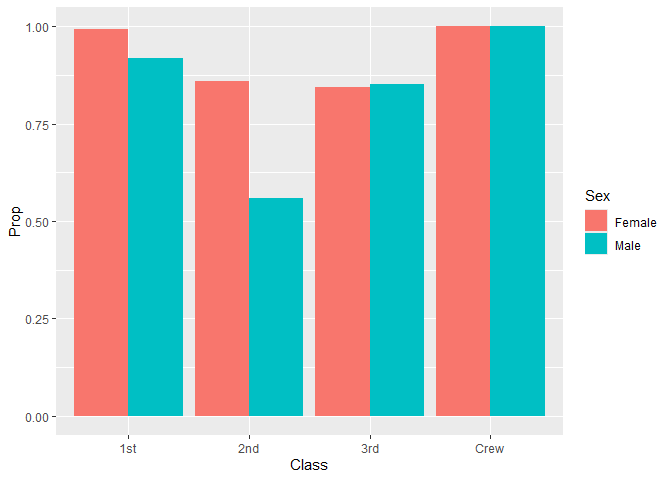
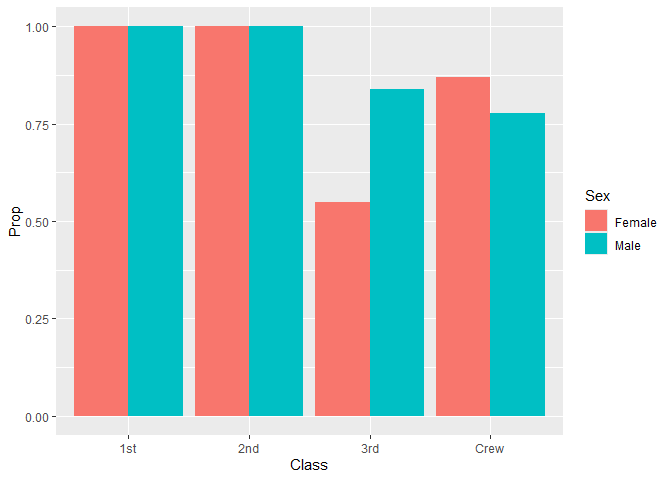
Repeat of challenge 01

Changed region(s): [[0.125, 0.0312, 0.625, 0.4375], [0.625, 0.0312, 0.8125, 0.25]]

diff --git a/challenges/c01-titanic-assignment.md b/challenges/c01-titanic-assignment.md
@@ -1,7 +1,7 @@
 RMS Titanic
 ================
-(Your name here)
-2020-
+Olivia Smith
+3/3/2025
 
 - [Grading Rubric](#grading-rubric)
   - [Individual](#individual)
@@ -148,7 +148,8 @@ df_titanic %>% summarize(total = sum(n))
 ``` r
 ## TASK: Visualize counts against `Class` and `Sex`
 survivors <- df_titanic %>% filter(Survived == "Yes")
-ggplot(survivors, aes(fill = Sex, x = Class, y = n)) +
+survivors %>% 
+  ggplot(aes(fill = Sex, x = Class, y = n)) +
   geom_col(position = "Stack")
 ```
 
@@ -204,39 +205,36 @@ df_prop
 ### **q4** Replicate your visual from q3, but display `Prop` in place of `n`. Document your observations, and note any new/different observations you make in comparison with q3. Is there anything *fishy* in your plot?
 
 ``` r
-survivors <- df_titanic %>% 
-  filter(Survived == "Yes") %>% 
-  group_by(Sex, Class)  %>% 
-    mutate(
-    Total = sum(n),
-    Prop = n / Total
-  )
+# survivors <- 
+#   df_titanic %>% 
+#   group_by(Sex, Class)  %>% 
+#   mutate(
+#     Total = sum(n),
+#     Prop = n / Total
+#   ) %>% 
+#   filter(Survived == "Yes")
 
-ggplot(survivors, aes(fill = Sex, x = Class, y = Prop)) +
+
+# survivors %>% 
+df_prop %>%
+  ggplot(aes(fill = Sex, x = Class, y = Prop)) +
   geom_col(position = "Dodge")
 ```
+
+    ## Warning: Removed 4 rows containing missing values or values outside the scale range
+    ## (`geom_col()`).
 
 ![](c01-titanic-assignment_files/figure-gfm/q4-task-1.png)<!-- -->
 
 **Observations**:
 
-- Write your observations here.
-  - I noticed that proportionally, the amount of people who survived
-    decreases from 1st to second class. This is different than the prior
-    plots, insinuating that the reason the amount of third class
-    passengers who survived was so high is because of the sheer volume
-    of those passengers, even though per capita they had a much lower
-    chance of survival. On the flip side, numerically there were not
-    many survivors from second class but this can be attributed to a
-    smaller population, as the proportion of second class survivors is
-    high. The proportion of survivors decreases the lower the class you
-    get, dropping off steeply after 2nd class. Further, within all the
-    classes the majority of survivors are women, which implies they were
-    given precedence across all classes.  
+- Write your observations here. -I noticed that most of the survivors
+  are from first and second class. -According to this graph, the only
+  deaths were in third class and the crew.
+  - Most fatalities are in third class.
 - Is there anything *fishy* going on in your plot?
-- I noticed that even though a famous event of the Titanic is women and
-  children getting precedence on the boats, the proportions of women and
-  men surviving are fairly equal throughout the classes.
+- I noticed that the graph says that all 1st and 2nd class passengers
+  survived, while that is not true.
 
 ### **q5** Create a plot showing the group-proportion of occupants who *did* survive, along with aesthetics for `Class`, `Sex`, *and* `Age`. Document your observations below.
 
@@ -245,8 +243,10 @@ additional variables!
 
 ``` r
 survivors <- df_prop %>% filter(Survived == "Yes")
-ggplot(survivors, aes(fill = Sex, x = Class, y = Prop)) +
-  geom_col(position = "Stack") +
+
+survivors %>% 
+  ggplot(aes(fill = Sex, x = Class, y = Prop)) +
+  geom_col(position = "dodge") +
   facet_grid(Age ~ .)
 ```
 
